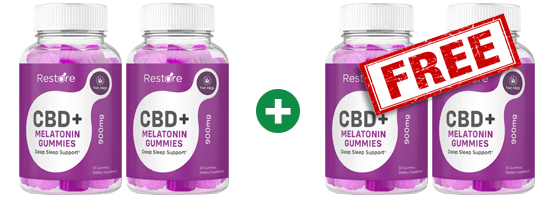
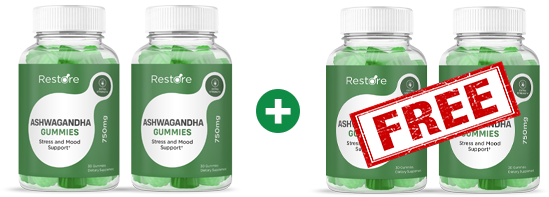
upsell 2 mobile

diff --git a/gummies/m/upsell-2.php b/gummies/m/upsell-2.php
@@ -27,9 +27,8 @@
     <div class="clearall"></div>
     
 	<div class="up-top-hdng">
-        <p class="hdng-txt1"><span>Wait! Enjoy Healthy & <br>Restful Sleep, Every Night!</span></p>
-        <p class="hdng-txt2">Add Our CBD + Melatonin Nighttime Gummies Designed to
-Help You Fall Asleep, Stay Asleep & Wake Up Refreshed! <span>Get 2 Free!</span></p>
+        <p class="hdng-txt1"><span>Want To Reduce Stress and <br>Wake Up Refreshed With An Ancient Indian Herb? </span></p>
+        <p class="hdng-txt2">Add Our Ashwagandha Gummies Now, Designed to Help You Relax Easier, Sleep Better and Feel Better In Just Seconds A Day! <span>Get 2 Free!</span></p>
     </div>
     <div class="up-sec1">
         <p class="ups1-txt1"><img src="images/fls-img.png" class="fls-img"> This Price Will Never Be Available Again!  <img src="images/fls-img.png" class="fls-img"></p>
@@ -39,10 +38,10 @@ Help You Fall Asleep, Stay Asleep & Wake Up Refreshed! <span>Get 2 Free!</span><
         </div>
         
         <ul class="up-s1-list">
-            <li>Help Relax Mind & Body Instantly</li>
-            <li>Restores Healthy Sleep Cycles</li> 
-            <li>Promotes Deep REM Sleep</li> 
-            <li>Boosts Morning Energy & Alertness</li>  
+            <li>Helps Relax Mind & Body Quickly</li>
+            <li>Promotes Healthy Sleep Cycles</li> 
+            <li>Restores The Body</li> 
+            <li>Wake Up Refreshed</li>  
         </ul>
         <div class="save-strip"><img src="images/up-tymtk.png" class="up-tymtk"> <p>Your FREE Bottles Reserved For <img src="images/wtch.png" class="wtch"> <span id="stopwatch">10:40</span> Minutes</p></div>
         <div class="up-prcBox">
